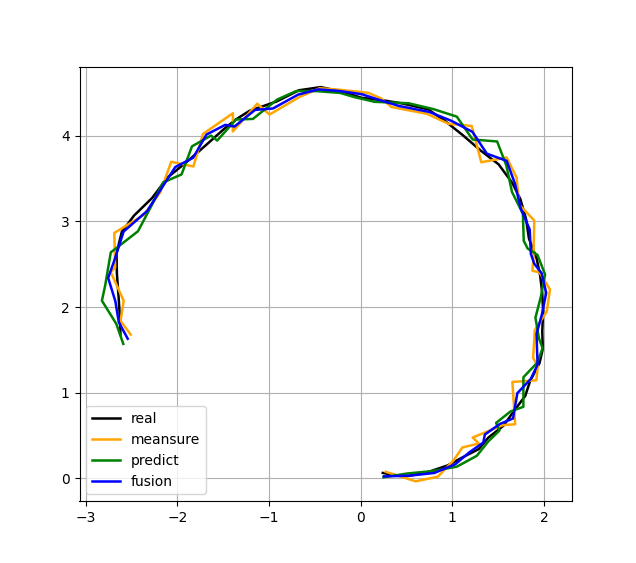
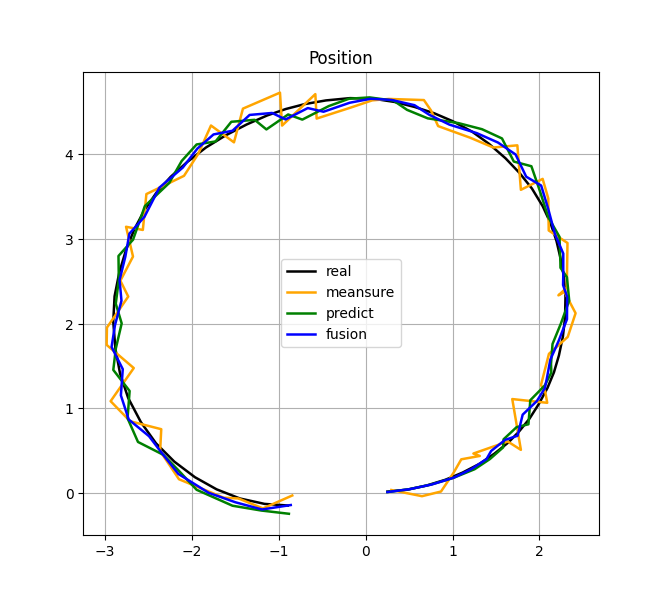
算法

diff --git a/拓展卡尔曼滤波/draw_ctrv.py b/拓展卡尔曼滤波/draw_ctrv.py
@@ -23,13 +23,33 @@ def run():
 
     import matplotlib.pyplot as plt
     # 绘制位置
-
+    plt.figure()
+    plt.title('Position')
     plt.plot(now_real_x[0, :], now_real_x[1, :], linewidth=linewidth, label='real', c='black')
     plt.plot(now_z[0, :], now_z[1, :], linewidth=linewidth, label='meansure', c='orange')
     plt.plot(predict_x[0, :], predict_x[1, :], linewidth=linewidth, label='predict', c='green')
     plt.plot(now_x[0, :], now_x[1, :], linewidth=linewidth, label='fusion', c='blue')
     plt.legend()
     plt.grid()
+
+    plt.figure()
+    plt.title('X')
+    plt.plot(now_real_x[0, :], linewidth=linewidth, label='real', c='black')
+    plt.plot(now_z[0, :], linewidth=linewidth, label='meansure', c='orange')
+    plt.plot(predict_x[0, :], linewidth=linewidth, label='predict', c='green')
+    plt.plot(now_x[0, :], linewidth=linewidth, label='fusion', c='blue')
+    plt.legend()
+    plt.grid()
+
+    plt.figure()
+    plt.title('Y')
+    plt.plot(now_real_x[1, :], linewidth=linewidth, label='real', c='black')
+    plt.plot(now_z[1, :], linewidth=linewidth, label='meansure', c='orange')
+    plt.plot(predict_x[1, :], linewidth=linewidth, label='predict', c='green')
+    plt.plot(now_x[1, :], linewidth=linewidth, label='fusion', c='blue')
+    plt.legend()
+    plt.grid()
+
     plt.show()
 
 

diff --git a/拓展卡尔曼滤波/ekf.cpp b/拓展卡尔曼滤波/ekf.cpp
@@ -181,12 +181,19 @@ void run(){
     // 状态转移噪声
     mat5x5f Q;
     Q <<
-        0.001, 0, 0, 0, 0,
-        0, 0.001, 0, 0, 0,
+        0.00001, 0, 0, 0, 0,
+        0, 0.00001, 0, 0, 0,
         0, 0, 0.001, 0, 0,
-        0, 0, 0, 0.001, 0,
-        0, 0, 0, 0, 0.001
+        0, 0, 0, 0.00001, 0,
+        0, 0, 0, 0, 0.0005
     ;
+    // Q <<
+    //     0.00001, 0, 0, 0, 0,
+    //     0, 0.00001, 0, 0, 0,
+    //     0, 0, 0.00001, 0, 0,
+    //     0, 0, 0, 0.00001, 0,
+    //     0, 0, 0, 0, 0.000005
+    // ;
     // 观测矩阵
     mat2x5f H;
     H <<
@@ -196,8 +203,8 @@ void run(){
     // 观测误差
     mat2x2f R;
     R <<
-        0.005, 0,
-        0, 0.005
+        0.01, 0,
+        0, 0.01
     ;
 
     // ctrv仿真环境
@@ -216,7 +223,7 @@ void run(){
     vector<vec5f> predict_x_record;
     vector<vec5f> now_x_record;
     vector<vec2f> now_z_record;
-    for(int i=0;i<48;++i){
+    for(int i=0;i<60;++i){
         sim.x_step();
         vec2f now_z_noise = sim.z_step();
 
